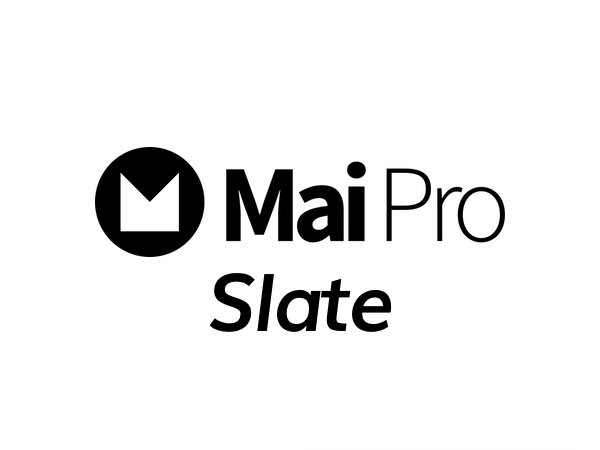
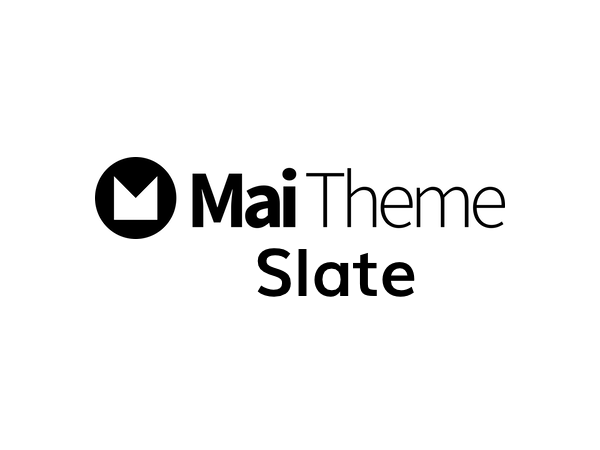
Update naming and dependencies for Mai Theme

Changed region(s): [[0.15, 0.3111, 0.84, 0.7467]]

diff --git a/style.css b/style.css
@@ -1,9 +1,9 @@
 /**
- * Theme Name:          Mai Slate Pro
- * Description:         Mai Slate Pro is a custom child theme for The Genesis Framework.
+ * Theme Name:          Mai Slate Theme
+ * Description:         Mai Slate Theme is a custom child theme for The Genesis Framework.
  * Author:              Mike Hemberger, BizBudding Inc
  * Author URI:          https://bizbudding.com/
- * Version:             1.0.2
+ * Version:             1.1.0
  *
  * Template:            genesis
  *

diff --git a/functions.php b/functions.php
@@ -1,22 +1,22 @@
 <?php
 
 // Child theme (Do not remove!)
-define( 'CHILD_THEME_NAME', 'Mai Slate Pro' );
-define( 'CHILD_THEME_URL', 'https://maipro.io/' );
-define( 'CHILD_THEME_VERSION', '1.0.2' );
+define( 'CHILD_THEME_NAME', 'Mai Slate Theme' );
+define( 'CHILD_THEME_URL', 'https://maitheme.com/' );
+define( 'CHILD_THEME_VERSION', '1.1.0' );
 
-// Support the Mai Pro Engine (Do not remove!)
-add_theme_support( 'mai-pro-engine' );
+// Support the Mai Theme Engine (Do not remove!)
+add_theme_support( 'mai-theme-engine' );
 
 /**
- * Mai Pro dependencies (Do not remove!).
+ * Mai Theme dependencies (Do not remove!).
  * This is required for the theme to function properly.
  */
 foreach ( glob( dirname( __FILE__ ) . '/includes/dependencies/*.php' ) as $file ) { include $file; }
 WP_Dependency_Installer::instance()->run( dirname( __FILE__ ) . '/includes/dependencies' );
 
-// Don't do anything else if the Mai Pro Engine plugin is not active.
-if ( ! class_exists( 'Mai_Pro_Engine' ) ) {
+// Don't do anything else if the Mai Theme Engine plugin is not active.
+if ( ! class_exists( 'Mai_Theme_Engine' ) ) {
 	return;
 }
 
@@ -30,16 +30,16 @@ foreach ( glob( dirname( __FILE__ ) . '/includes/*.php' ) as $file ) { include $
 
 
 // Enqueue CSS files
-add_action( 'wp_enqueue_scripts', 'maip_enqueue_fonts' );
-function maip_enqueue_fonts() {
-	wp_enqueue_style( 'maip-google-fonts', '//fonts.googleapis.com/css?family=Muli:300,300i,400,400i,700,700i', array(), CHILD_THEME_VERSION );
+add_action( 'wp_enqueue_scripts', 'maitheme_enqueue_fonts' );
+function maitheme_enqueue_fonts() {
+	wp_enqueue_style( 'maitheme-google-fonts', '//fonts.googleapis.com/css?family=Muli:300,300i,400,400i,700,700i', array(), CHILD_THEME_VERSION );
 }
 
 // Customize the site footer text
-add_filter( 'genesis_footer_creds_text', 'maip_site_footer_text' );
-function maip_site_footer_text( $text ) {
-	$url  = 'https://maipro.io/';
-	$name = 'Mai Pro';
+add_filter( 'genesis_footer_creds_text', 'maitheme_site_footer_text' );
+function maitheme_site_footer_text( $text ) {
+	$url  = 'https://maitheme.com/';
+	$name = 'Mai Theme';
 	return sprintf( 'Copyright &copy; %s <a href="%s" title="%s">%s</a> &middot; All Rights Reserved &middot; Powered by <a rel="nofollow" href="%s">%s</a>',
 		date('Y'),
 		get_bloginfo('url'),
